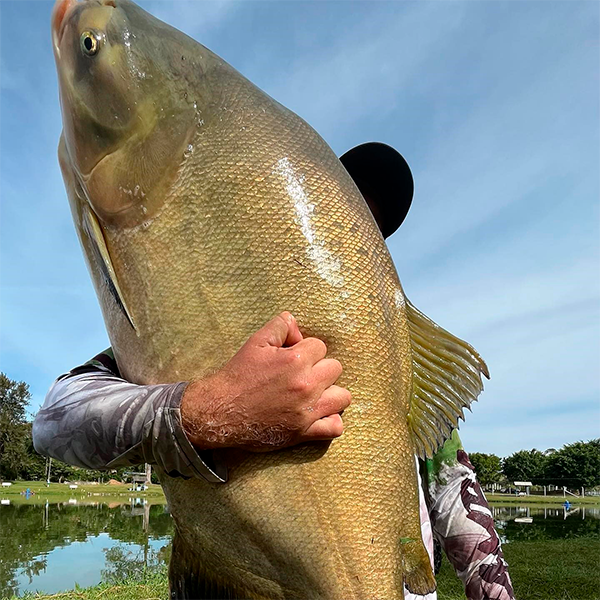
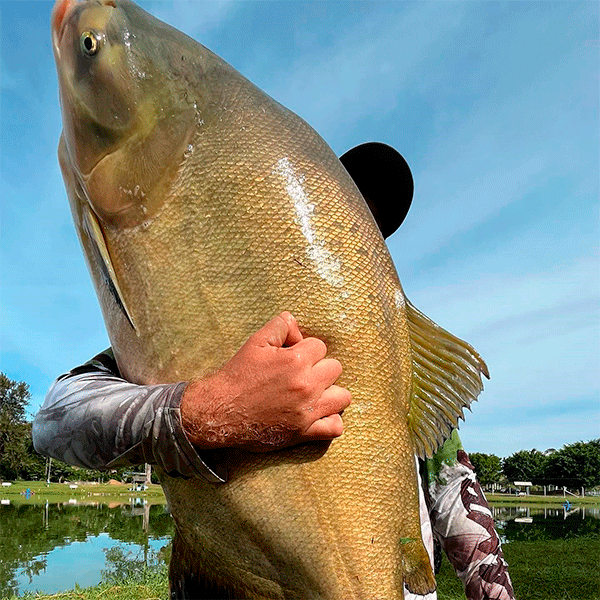
alterado tamnho das fotos

diff --git a/src/Components/Social.jsx b/src/Components/Social.jsx
@@ -13,7 +13,7 @@ function Social() {
       <Container className="GapVert Centro FocusInDaley">
         <Row style={{ marginBottom: "50px" }}>
           <Col className="Centro SocialLogo">
-            <Link
+            <a
               className="link"
               style={{ marginLeft: "5px" }}
               href="https://www.facebook.com/pesqueirosantaritagigantes/"
@@ -25,10 +25,10 @@ function Social() {
               >
                 face
               </h6>
-            </Link>
+            </a>
           </Col>
           <Col className="Centro SocialLogo">
-            <Link
+            <a
               className="link"
               style={{ marginLeft: "5px" }}
               href="https://www.instagram.com/santa_rita_gigantes/"
@@ -44,10 +44,10 @@ function Social() {
               >
                 Insta
               </h6>
-            </Link>
+            </a>
           </Col>
           <Col className="Centro SocialLogo">
-            <Link
+            <a
               className="link"
               style={{ marginLeft: "5px" }}
               href="https://wa.me/5511976023098?text=Ola%2C+estou+entrando+em+contato+pelo+site+do+Santa+Rita+Gigantes+e+gostaria+de+saber+um+pouco+mais+sobre+o+pesqueiro."
@@ -63,13 +63,13 @@ function Social() {
               >
                 Whats1
               </h6>
-            </Link>
+            </a>
           </Col>
           <Col className="Centro SocialLogo">
-            <Link
+            <a
               className="link"
               style={{ marginLeft: "5px" }}
-              href="https://wa.me/5511976023098?text=Ola%2C+estou+entrando+em+contato+pelo+site+do+Santa+Rita+Gigantes+e+gostaria+de+saber+um+pouco+mais+sobre+o+pesqueiro."
+              href="https://wa.me/5511987826354?text=Ola%2C+estou+entrando+em+contato+pelo+site+do+Santa+Rita+Gigantes+e+gostaria+de+saber+um+pouco+mais+sobre+o+pesqueiro."
               target="_blank"
             >
               <Image
@@ -82,7 +82,26 @@ function Social() {
               >
                 Whats2
               </h6>
-            </Link>
+            </a>
+          </Col>
+          <Col className="Centro SocialLogo">
+            <a
+              className="link"
+              style={{ marginLeft: "5px" }}
+              href="mailto:joaovitorfernandes9@hotmail.com"
+              target="_blank"
+            >
+              <Image
+                className="NavLogo"
+                src="/icons/Email.png"
+                alt="Whatsapp"
+              />
+              <h6
+                style={{ marginRight: "5px", color: "black", fontSize: "12px" }}
+              >
+                Whats2
+              </h6>
+            </a>
           </Col>
         </Row>
       </Container>

diff --git a/src/pages/infos.js b/src/pages/infos.js
@@ -1,6 +1,4 @@
-import Head from "next/head";
 import { Inter } from "next/font/google";
-import styles from "@/styles/Home.module.css";
 import NavBar from "../Components/NavBar";
 import CarouPesque from "../Components/CarouPesque";
 import CarouHospe from "@/Components/CarouHospe";
@@ -12,23 +10,12 @@ const inter = Inter({ subsets: ["latin"] });
 export default function infos() {
   return (
     <>
-      <Head>
-        <title>Santa Rita Gigantes</title>
-        <meta name="description" content="" />
-        <meta name="viewport" content="width=device-width, initial-scale=1" />
-        <link rel="icon" href="/favicon.ico" />
-      </Head>
-      <main className={styles.main}>
-        <div className={styles.description}>
-          <NavBar />
-          <div style={{ paddingTop: "30px" }}>
-            <CarouPesque />
-          </div>
-          <CarouHospe />
-          <CarouRestau />
-          <NavFoot />
-        </div>
-      </main>
+      <NavBar />
+      <div style={{ height: "70px" }} />
+      <CarouPesque />
+      <CarouHospe />
+      <CarouRestau />
+      <NavFoot />
     </>
   );
 }

diff --git a/src/pages/_app.js b/src/pages/_app.js
@@ -1,7 +1,19 @@
 import "@/styles/globals.css";
 import "react-responsive-carousel/lib/styles/carousel.min.css";
 import "bootstrap/dist/css/bootstrap.min.css";
+import Head from "next/head";
 
-export default function App({ Component, pageProps }) {
-  return <Component {...pageProps} />;
-}
+const App = ({ Component, pageProps }) => (
+  <>
+    <Head>
+      <title>Santa Rita Gigantes</title>
+      <meta charSet="utf-8" />
+      <meta name="viewport" content="width=device-width, initial-scale=1" />
+      <meta name="description" content="Santa Rita Gigantes." />
+      <link rel="icon" href="/favicon.ico" />
+    </Head>
+    <Component {...pageProps} />
+  </>
+);
+
+export default App;

diff --git a/src/pages/index.js b/src/pages/index.js
@@ -1,4 +1,3 @@
-import Head from "next/head";
 import { Inter } from "next/font/google";
 import styles from "@/styles/Home.module.css";
 import NavBar from "../Components/NavBar";
@@ -15,12 +14,6 @@ const inter = Inter({ subsets: ["latin"] });
 export default function Home() {
   return (
     <>
-      <Head>
-        <title>Santa Rita Gigantes</title>
-        <meta name="description" content="" />
-        <meta name="viewport" content="width=device-width, initial-scale=1" />
-        <link rel="icon" href="/favicon.ico" />
-      </Head>
       <main className={styles.main}>
         <div className={styles.description}>
           <NavBar />

diff --git a/src/styles/globals.css b/src/styles/globals.css
@@ -119,6 +119,7 @@ body {
   padding: 0;
   width: 100%;
   font-weight: 300;
+  height: 70px;
   z-index: 10;
 }
 
@@ -348,15 +349,9 @@ p.AboutText {
 /* ANCHOR - CAROUSEL BOOTSTRAP --------------------------------------------------------- */
 
 .Carrossel {
-  margin: 0px;
-  width: 100%;
-  display: flex;
-  justify-content: center;
-  align-items: center;
+  padding-top: 3vw;
+  padding-bottom: 8vw;
   text-align: center;
-  height: 90vw;
-  max-height: 80vh;
-  flex-direction: column;
 }
 
 .CarroTextDiv {
@@ -405,4 +400,8 @@ p.AboutText {
 
 .RightLessGap {
   margin-left: -2vh;
+}
+
+.test {
+  margin-top: 5vw;
 }
